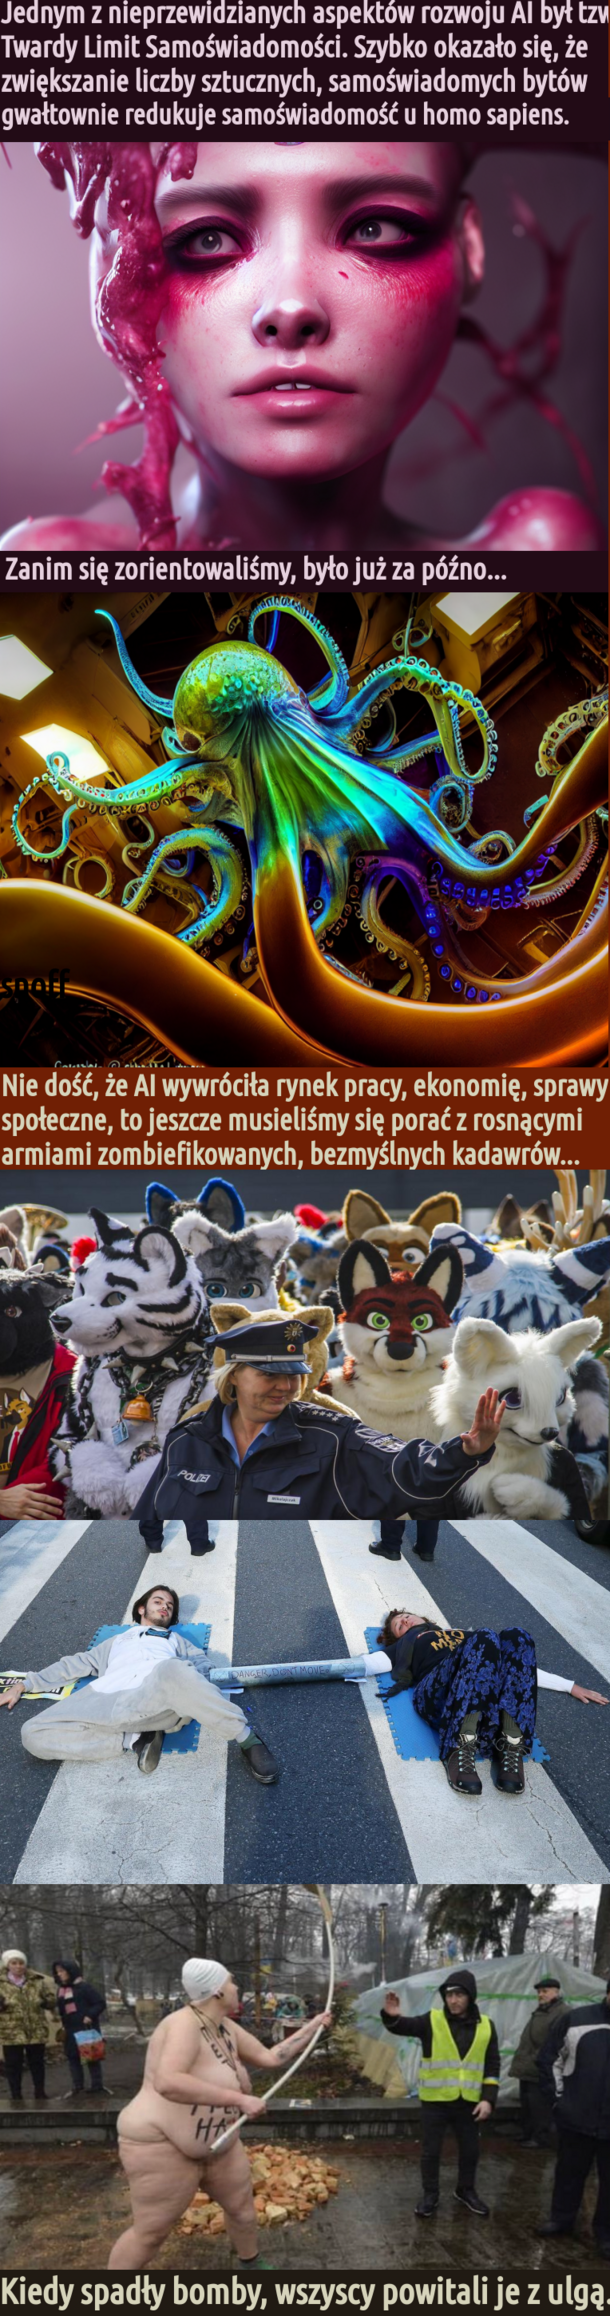
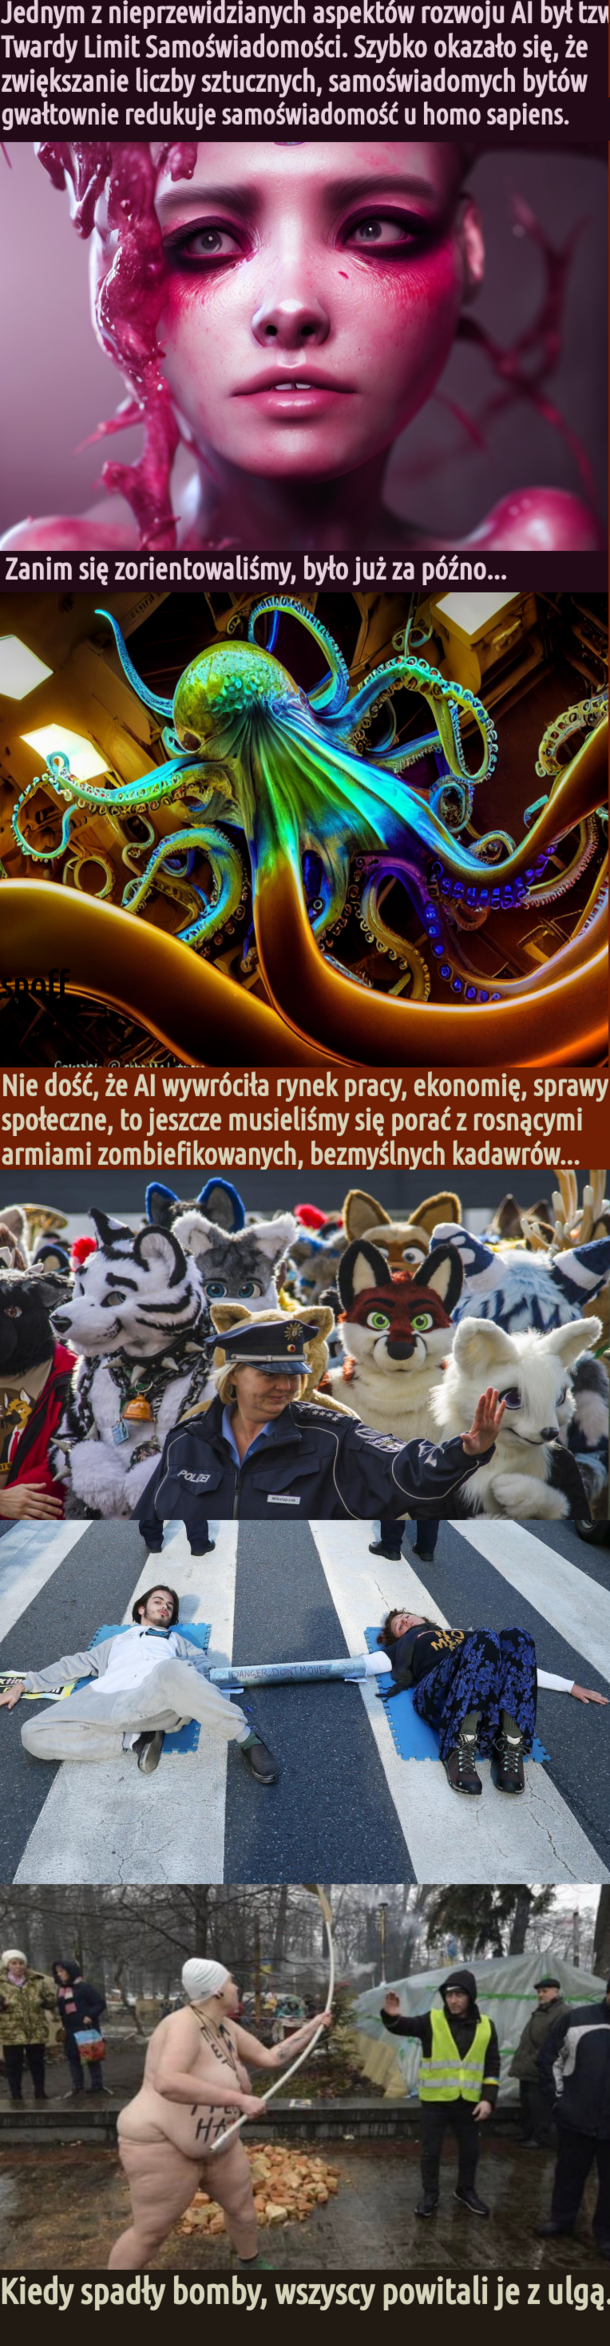
biore nasiebie

diff --git a/index.html b/index.html
@@ -30,11 +30,23 @@
 <!-- Maupy Apokalipsy — wszystkie wpisy -->
 <!-- ========================================== -->
 
-
-
-<article class="panel" id="gdzie-mnie-ciagniesz">
+<article class="panel" id="biore-na-siebie">
   <header class="panel-meta">
-    <h2 class="panel-title"><a href="#gdzie-mnie-ciagniesz">zajmijcie ich czymś</a></h2>
+    <h2 class="panel-title"><a href="#biore-na-siebie">Maupy Apokalipsy czyli Polska Postapo, odc 11207, "biorę to na siebie"</a></h2>
+    <time class="panel-date" datetime="2026-06-22">2026-06-22</time>
+  </header>
+  <input type="checkbox" class="expand-toggle" id="expand-3061">
+  <figure class="panel-figure">
+    <img src="img/czychceszwiedziecwięcej.png" alt="biorę to na siebie" loading="lazy">
+    <figcaption class="visually-hidden"></figcaption>
+  </figure>
+  <label for="expand-3061" class="expand-label">kliknij, żeby rozwinąć</label>
+  <!-- URLs: https://jbzd.com.pl/obr/4533677/maupy-apokalipsy-czyli-polska-postapo-odc-11207-quot-biore-to-na-siebie-quot -->
+</article>
+
+<article class="panel" id="kryzys-mocy">
+  <header class="panel-meta">
+    <h2 class="panel-title"><a href="#kryzys-mocy">zajmijcie ich czymś</a></h2>
     <time class="panel-date" datetime="2026-05-22">2026-05-22</time>
   </header>
   <input type="checkbox" class="expand-toggle" id="expand-3060">
@@ -1676,7 +1688,7 @@
 <article class="panel" id="przebaczmy-sobie-nawzajem-to-ani-pierwszy-ani-ostatni-raz-ki">
   <header class="panel-meta">
     <h2 class="panel-title"><a href="#przebaczmy-sobie-nawzajem-to-ani-pierwszy-ani-ostatni-raz-ki">przebaczmy sobie nawzajem, to ani pierwszy ani ostatni raz, kiedy zaliczamy taką wpadkę</a></h2>
-    <time class="panel-date" datetime="2023-12-16">2023-12-16</time>
+    <time class="panel-date" datetime="2023-02-16">2023-02-16</time>
   </header>
   <input type="checkbox" class="expand-toggle" id="expand-87">
   <figure class="panel-figure">
